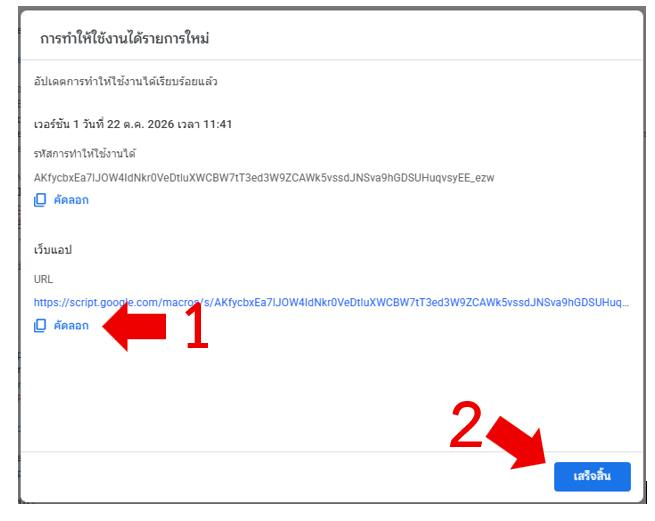
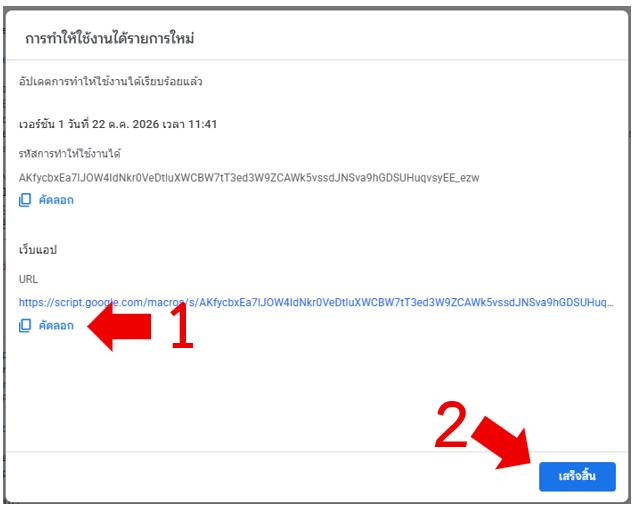
คู่มือภาพประกอบครบทุกขั้น (step4a/4b · step5a/5b/5c) + ข้อความตรงหมายเลขลูกศร

Changed region(s): [[0.0, 0.0, 1.0, 0.998]]

diff --git a/index.html b/index.html
@@ -1325,14 +1325,14 @@ const HELP = {
   'super-masters': { title: 'ตารางแม่', who: 'เจ้าของโครงการ', steps: [['ประเภทถัง', 'ชื่อ · ลิตรต่อใบ · ราคามาตรฐาน · อายุใช้งาน', 'ทุกเทศบาลเห็นเหมือนกัน'], ['ประเภทรถ', 'ชื่อ · ความจุ (ลิตร)', 'admin เลือกตอนเพิ่มรถ'], ['ประเภทจุด', 'เช่น จุดทิ้งขยะ ตลาด ร้านค้า', 'ผู้บันทึกเลือกตอนเพิ่มจุด'], ['เกณฑ์สีหมุด', '5 ระดับ ช่วงลิตร + สี', 'มีผลทุกหน้าทันที']], tips: 'ลบประเภทที่มีข้อมูลอ้างอิงไม่ได้ ให้ปิดใช้งานแทน (ถังเดิมยังนับตามปกติ)' },
   'super-settings': { title: 'ค่าตั้งค่าส่วนกลาง', who: 'เจ้าของโครงการ', steps: [['อ่านคำอธิบายของแต่ละค่า', 'ใต้ชื่อค่า', 'เข้าใจผลกระทบก่อนแก้'], ['เลือกหรือกรอก แล้วกด "บันทึก" ของค่านั้น', 'การ์ดแต่ละใบ', 'ข้อความ "บันทึกแล้ว" และ "ค่าปัจจุบัน" เปลี่ยน']], tips: 'ค่าที่มี ⚠ กระทบทุกเทศบาลทันที ระบบถามยืนยันก่อน' },
   'photo-owner': { title: 'ย้ายที่เก็บรูปไป Drive ของเทศบาล (ฝั่งเจ้าของโครงการ)', who: 'เจ้าของโครงการ', steps: [['ส่งสคริปต์ + ข้อความ', 'ส่วนกลาง → คู่มือเจ้าของโครงการ → "ดาวน์โหลดไฟล์ Code.gs" และ "คัดลอกข้อความส่งเทศบาล" → ส่งทางอีเมล/ไลน์ให้ผู้ดูแลบัญชี Google ของเทศบาล', 'เทศบาลได้ไฟล์ Code.gs และข้อความขั้นตอน'], ['รอรับ URL', 'เทศบาลส่ง "URL เว็บแอป" กลับมา 1 บรรทัด (ขึ้นต้น https://script.google.com/macros/s/ ลงท้าย /exec)', 'ได้ URL · ไม่ต้องรับรหัสผ่านใด ๆ'], ['ตั้งค่าแทนเทศบาล', 'ส่วนกลาง → เทศบาลนั้น → "จัดการ" → แท็บ "ตั้งค่าเทศบาล" → "ใช้ Google Drive ของเทศบาลเอง" → วาง URL → บันทึก', '"บันทึกการตั้งค่าแล้ว"'], ['ทดสอบ', 'ให้ผู้บันทึกของเทศบาลถ่ายรูปทดสอบ 1 รูป', 'รูปโผล่ในโฟลเดอร์ UBWast-photos ใน Drive ของเทศบาล และเปิดดูในเว็บได้']], tips: 'รูปเก่ายังอยู่ที่ Drive เดิม ไม่ย้ายอัตโนมัติ · ถ้าเทศบาลทำไม่สำเร็จ กลับไปเลือก "ที่เก็บกลาง" ได้ทุกเมื่อ' },
-  'photo-muni': { title: 'ติดตั้งสคริปต์รับรูปในบัญชี Google ของเทศบาล (ฝั่งเทศบาล)', who: 'ผู้ดูแลบัญชี Google ของเทศบาล', steps: [['เปิด Apps Script', 'เข้า script.google.com ด้วยบัญชี Google ของเทศบาล → ปุ่ม "โครงการใหม่" (New project)', 'หน้าแก้ไขโค้ดชื่อ "โครงการไม่มีชื่อ" (Untitled project)'], ['วางโค้ด', 'ลบโค้ดเดิมในไฟล์ รหัส.gs (Code.gs) ให้ว่าง → วางโค้ดจากไฟล์ Code.gs ที่ได้รับทั้งหมด → กดไอคอนบันทึก (Save, Ctrl+S)', 'ด้านบนขึ้น "บันทึกไปที่ไดรฟ์แล้ว" ไม่มีขีดแดง'], ['ตั้งชื่อโครงการ', 'คลิกชื่อ "โครงการไม่มีชื่อ" → พิมพ์ UBWast-photos-<รหัสเทศบาล> → "เปลี่ยนชื่อ" (Rename)', 'ชื่อโครงการเปลี่ยน'], ['Deploy', 'ปุ่มน้ำเงิน "การทำให้ใช้งานได้" (Deploy) → "การทำให้ใช้งานได้ใหม่" (New deployment) → ไอคอนเฟือง เลือกประเภท "เว็บแอป" (Web app) → ดำเนินการในฐานะ "ฉัน" (Execute as: Me) → ผู้มีสิทธิ์เข้าถึง "ทุกคน" (Who has access: Anyone) → "ทำให้ใช้งานได้" (Deploy)', 'หน้าต่างขอสิทธิ์'], ['อนุญาตสิทธิ์', '"ให้สิทธิ์เข้าถึง" (Authorize access) → เลือกบัญชีเทศบาล → ถ้าเตือน "Google ยังไม่ได้ยืนยันแอปนี้" กด "ขั้นสูง" (Advanced) → "ไปที่ UBWast-photos… (ไม่ปลอดภัย)" (Go to …) → "อนุญาต" (Allow)', 'กลับมาหน้าผลการ deploy'], ['คัดลอก URL', 'คัดลอก "URL" ใต้หัวข้อ "เว็บแอป" (Web app) ขึ้นต้น https://script.google.com/macros/s/ ลงท้าย /exec', 'ส่ง URL นี้ให้เจ้าของโครงการ 1 บรรทัด']], tips: 'ไม่ต้องสร้างโฟลเดอร์ ไม่ต้องตั้งค่าคุณสมบัติสคริปต์ (Script properties) และไม่ต้องแชร์โฟลเดอร์ให้ใคร สคริปต์สร้างโฟลเดอร์ "UBWast-photos" ให้เองและตั้งค่ารูปให้ดูได้ในระบบ · ห้ามส่งรหัสผ่านบัญชี Google ให้ใคร' },
+  'photo-muni': { title: 'ติดตั้งสคริปต์รับรูปในบัญชี Google ของเทศบาล (ฝั่งเทศบาล)', who: 'ผู้ดูแลบัญชี Google ของเทศบาล', steps: [['เปิด Apps Script', 'เข้า script.google.com ด้วยบัญชี Google ของเทศบาล → ปุ่ม "โครงการใหม่" (New project)', 'หน้าแก้ไขโค้ดชื่อ "โครงการไม่มีชื่อ" (Untitled project)'], ['วางโค้ด', 'ลบโค้ดเดิมในไฟล์ รหัส.gs (Code.gs) ให้ว่าง → วางโค้ดจากไฟล์ Code.gs ที่ได้รับทั้งหมด → กดไอคอนบันทึก (Save, Ctrl+S)', 'ด้านบนขึ้น "บันทึกไปที่ไดรฟ์แล้ว" ไม่มีขีดแดง'], ['ตั้งชื่อโครงการ', 'คลิกชื่อ "โครงการไม่มีชื่อ" → พิมพ์ UBWast-photos-<รหัสเทศบาล> → "เปลี่ยนชื่อ" (Rename)', 'ชื่อโครงการเปลี่ยน'], ['Deploy (ตามหมายเลขในภาพ)', '1 อยู่ที่หน้าโค้ด → 2 ปุ่มน้ำเงิน "การทำให้ใช้งานได้" (Deploy) → "การทำให้ใช้งานได้รายการใหม่" (New deployment) → 3 ไอคอนเฟือง "เลือกประเภท" (Select type) → 4 "เว็บแอป" (Web app) → 5 ดำเนินการในฐานะ "ฉัน" (Execute as: Me) → 6 ผู้มีสิทธิ์เข้าถึง "ทุกคน" (Who has access: Anyone) → 7 "การทำให้ใช้งานได้" (Deploy)', 'หน้าต่าง "เว็บแอปต้องการสิทธิ์เข้าถึงข้อมูลของคุณ"'], ['อนุญาตสิทธิ์ (ตามหมายเลขในภาพ)', '1 "ให้สิทธิ์เข้าถึง" (Authorize access) → เลือกบัญชีเทศบาล → หน้าเตือน "Google hasn’t verified this app" (Google ยังไม่ได้ยืนยันแอปนี้) → 2 "Advanced" (ขั้นสูง) → 3 "Go to โครงการ… (unsafe)" (ไปที่โครงการ… ไม่ปลอดภัย) → 4 ติ๊ก "Select all" (เลือกทั้งหมด) → 5 "Continue" (ดำเนินการต่อ)', 'กลับมาหน้าผลการ deploy · คำเตือน "ไม่ปลอดภัย" เป็นข้อความมาตรฐานของ Google สำหรับสคริปต์ที่เขียนเอง ไม่ใช่ปัญหา'], ['คัดลอก URL', 'คัดลอก "URL" ใต้หัวข้อ "เว็บแอป" (Web app) ขึ้นต้น https://script.google.com/macros/s/ ลงท้าย /exec', 'ส่ง URL นี้ให้เจ้าของโครงการ 1 บรรทัด']], tips: 'ไม่ต้องสร้างโฟลเดอร์ ไม่ต้องตั้งค่าคุณสมบัติสคริปต์ (Script properties) และไม่ต้องแชร์โฟลเดอร์ให้ใคร สคริปต์สร้างโฟลเดอร์ "UBWast-photos" ให้เองและตั้งค่ารูปให้ดูได้ในระบบ · ห้ามส่งรหัสผ่านบัญชี Google ให้ใคร' },
   reports: { title: 'รายงานสำหรับผู้บริหาร', who: 'admin เทศบาล', steps: [['เลือกรายงาน', 'ปุ่มในหน้านี้', 'เปิดหน้าต่างใหม่พร้อมปุ่ม "พิมพ์ / บันทึก PDF"'], ['พิมพ์', 'ปุ่มในหน้าต่างรายงาน → เลือกเครื่องพิมพ์หรือ "บันทึกเป็น PDF"', 'เอกสาร A4 พร้อมช่องลงนาม']], tips: 'ตัวเลขในรายงานคำนวณสด ณ เวลาที่กด · ถ้าเบราว์เซอร์กันหน้าต่างใหม่ ให้อนุญาตป๊อปอัปของเว็บนี้' }
 };
 function helpBtn(key) { return `<button type="button" class="infobtn" aria-label="วิธีใช้" title="วิธีใช้ส่วนนี้" onclick="showHelp('${key}')"><svg width="18" height="18" viewBox="0 0 24 24" fill="none" stroke="currentColor" stroke-width="2" stroke-linecap="round" aria-hidden="true"><circle cx="12" cy="12" r="10"/><path d="M9.5 9.5a2.5 2.5 0 1 1 3.5 2.3c-.7.4-1 .9-1 1.7"/><circle cx="12" cy="17" r="1" fill="currentColor" stroke="none"/></svg></button>`; }
 const helpBody = h => `<div class="muted">สำหรับ: ${esc(h.who)}</div><ol style="padding-left:22px">${h.steps.map(([what, where, expect]) => `<li style="margin:8px 0"><b>${esc(what)}</b><div class="muted">ที่ไหน: ${esc(where)}</div><div class="muted">ค่าที่ต้องได้: ${esc(expect)}</div></li>`).join('')}</ol>${h.tips ? `<div class="banner info">${esc(h.tips)}</div>` : ''}`;
 function showHelp(key) { const h = HELP[key]; if (!h) return; openModal(`<h3 style="margin-top:0">${esc(h.title)}</h3>${helpBody(h)}<div class="row"><a class="btn secondary" href="#help" onclick="closeModal()" style="text-decoration:none">คู่มือทั้งหมด</a><button onclick="closeModal()">ปิด</button></div>`); }
 // รูปประกอบคู่มือ (DEC-095): ไฟล์ภาพอยู่ในเว็บเอง โฟลเดอร์ help/ ของ repo ubwast-web (ไม่ใช้ Drive ไม่ต้องแชร์อะไร) · แต่ละขั้นมีได้หลายรูป เรียงตามลำดับ
-const HELP_IMG = { 'photo-muni-1': ['step1.jpg'], 'photo-muni-2': ['step2a.jpg', 'step2b.jpg'], 'photo-muni-3': ['step3a.jpg', 'step3b.jpg'], 'photo-muni-4': [], 'photo-muni-5': [], 'photo-muni-6': ['step6.jpg'] };
+const HELP_IMG = { 'photo-muni-1': ['step1.jpg'], 'photo-muni-2': ['step2a.jpg', 'step2b.jpg'], 'photo-muni-3': ['step3a.jpg', 'step3b.jpg'], 'photo-muni-4': ['step4a.jpg', 'step4b.jpg'], 'photo-muni-5': ['step5a.jpg', 'step5b.jpg', 'step5c.jpg'], 'photo-muni-6': ['step6.jpg'] };
 const helpImg = (key, alt) => (HELP_IMG[key] || []).map(f => `<img src="help/${f}" alt="${esc(alt)}" loading="lazy" style="max-width:100%;border:1px solid var(--line);border-radius:8px;margin:6px 0;display:block">`).join('');
 function pageHelpPhoto(view) {
   const h = HELP['photo-muni']; const imgs = [['photo-muni-1'], ['photo-muni-2'], ['photo-muni-3'], ['photo-muni-4'], ['photo-muni-5'], ['photo-muni-6']];
